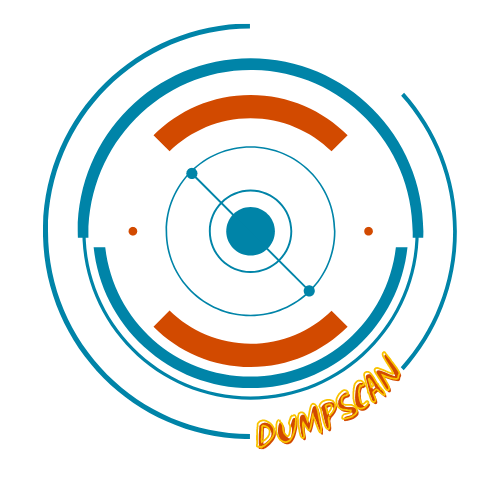
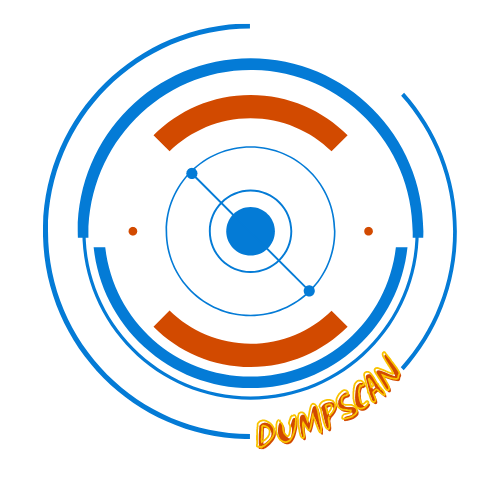
update styles

diff --git a/dumpscan/common/output.py b/dumpscan/common/output.py
@@ -6,14 +6,15 @@ from rich.style import Style
 
 theme = Theme(
     {
+        "repr.attrib_value": "#047bd6",
         "repr.call": Style.null(),
         "repr.ipv6 ": "#008df8",
         "repr.none": "italic #d24a00",
         "repr.number": "#008df8",
         "repr.str": "bright_blue",
-        "table.header": "bold italic #d24a00",
         "table.border": "#0084a8",
         "table.cell": "#00a5fa",
+        "table.header": "bold italic #d24a00",
     }
 )
 
@@ -24,8 +25,5 @@ def get_dumpscan_console():
 
 def get_dumpscan_table():
     return Table(
-        expand=False,
-        box=box.SIMPLE_HEAVY,
-        highlight=True,
-        border_style="#0084a8",
+        expand=False, box=box.SIMPLE_HEAVY, highlight=True, border_style="#047bd6"
     )

diff --git a/dumpscan/common/scanners/x509.py b/dumpscan/common/scanners/x509.py
@@ -38,7 +38,7 @@ class x509Scanner:
 
         table = get_dumpscan_table()
         table.add_column("Rule", style="bold #f9c300")
-        table.add_column("Result")
+        table.add_column("Result", style="#008df8")
         table.add_column("Thumbprint", style="#008df8")
         table.add_column("Public Integers (First 20 bytes)")
 
